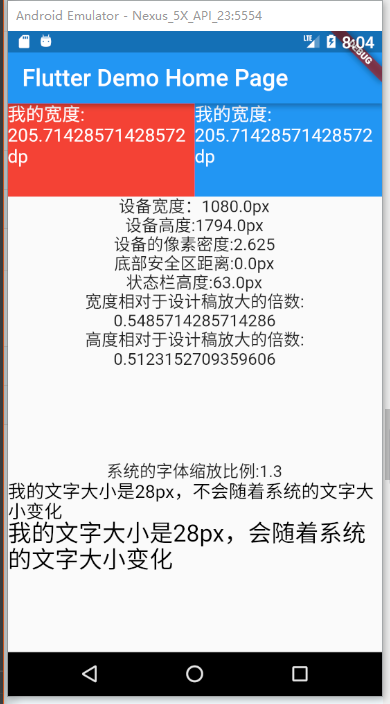
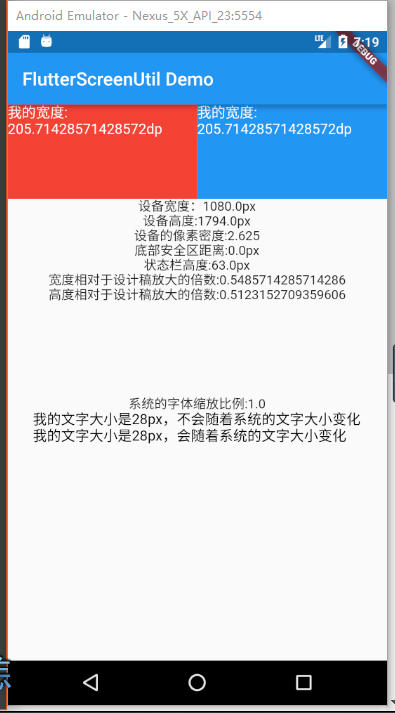
完善文档

diff --git a/example/lib/main.dart b/example/lib/main.dart
@@ -43,7 +43,6 @@ class _MyHomePageState extends State<MyHomePage> {
         'The ratio of font and width to the size of the design:${ScreenUtil().scaleWidth}'); //The width is enlarged relative to the design draft
     print(
         'The ratio of  height width to the size of the design:${ScreenUtil().scaleHeight}'); //The height is enlarged relative to the design draft
-    print('System font scaling factor:${ScreenUtil.textScaleFactory}');
 
     return new Scaffold(
       appBar: new AppBar(
@@ -105,10 +104,6 @@ class _MyHomePageState extends State<MyHomePage> {
                 Text('My font size is 28px and will change with the system.',
                     style: TextStyle(
                         color: Colors.black, fontSize: ScreenUtil().setSp(28))),
-                Text('My font size is default.',
-                    style: TextStyle(
-                      color: Colors.black,
-                    )),
               ],
             )
           ],

diff --git a/README.md b/README.md
@@ -16,7 +16,7 @@ dependencies:
   flutter:
     sdk: flutter
   # add flutter_ScreenUtil
-  flutter_screenutil: ^0.3.0
+  flutter_screenutil: ^0.3.1
 ```
 
 ### Add the following imports to your Dart code:

diff --git a/README_CN.md b/README_CN.md
@@ -19,7 +19,7 @@ dependencies:
   flutter:
     sdk: flutter
   # 添加依赖
-  flutter_screenutil: ^0.3.0
+  flutter_screenutil: ^0.3.1
 ```
 
 ### 在每个使用的地方导入包：
